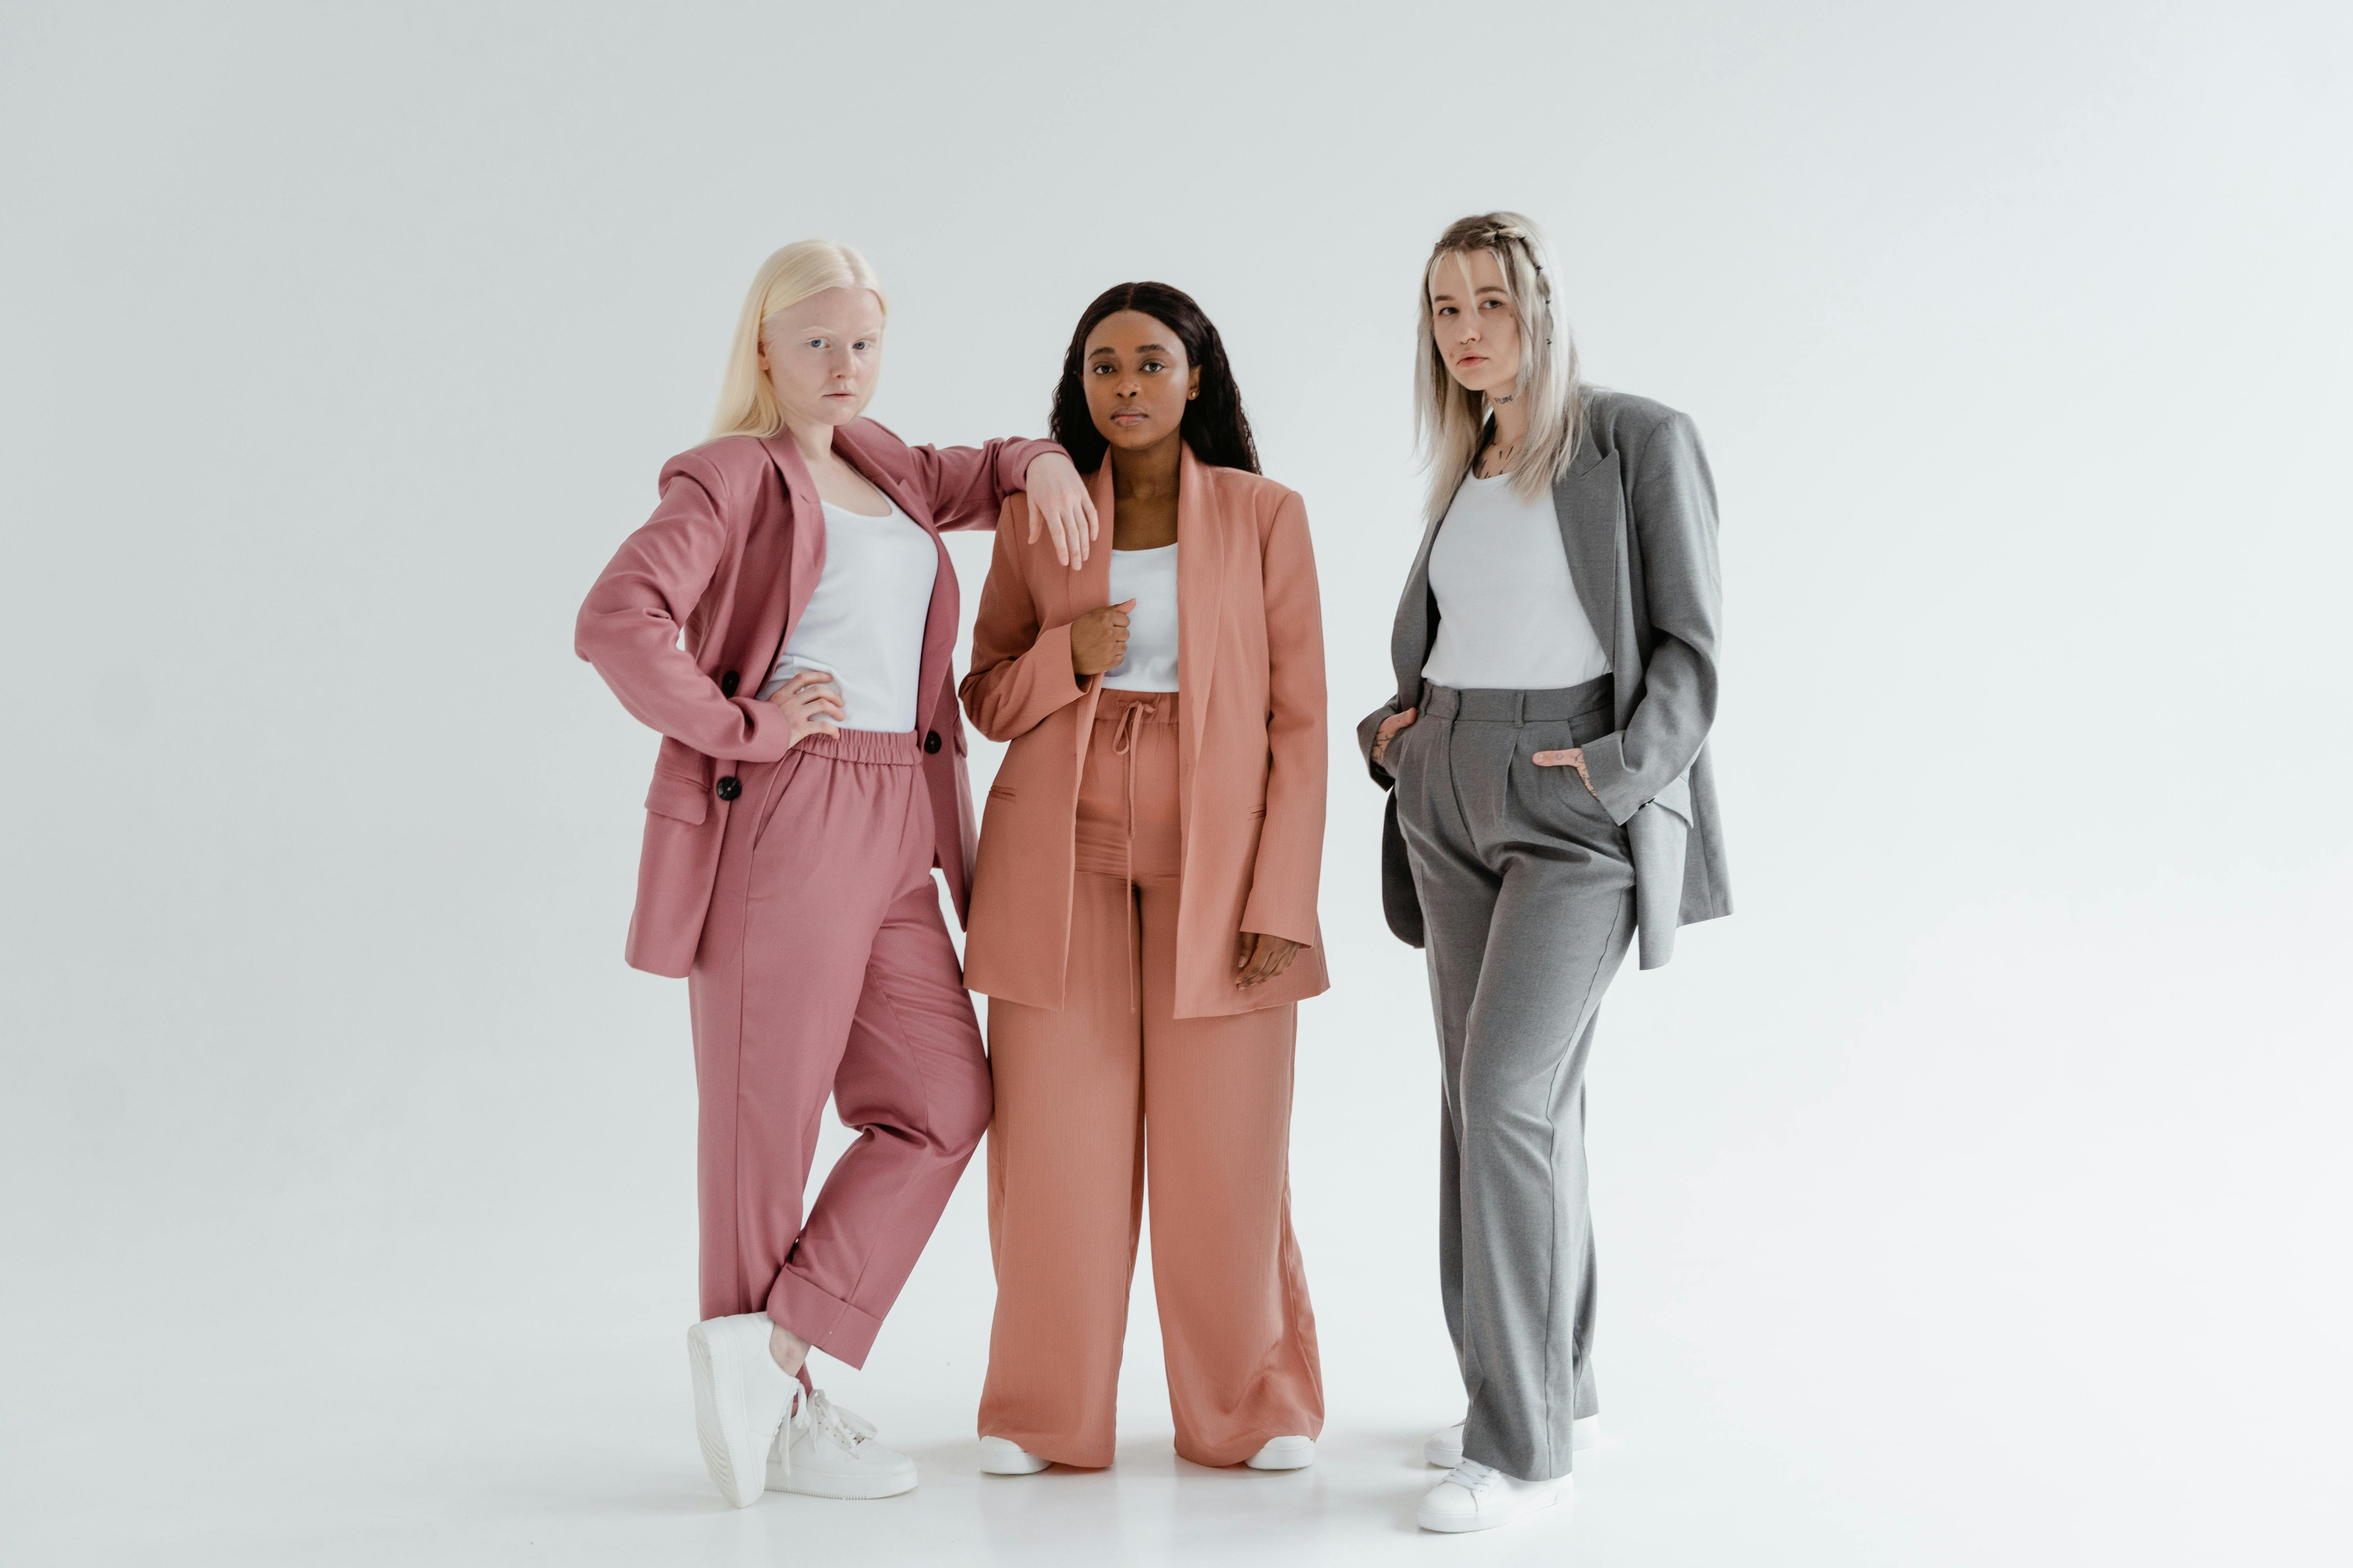
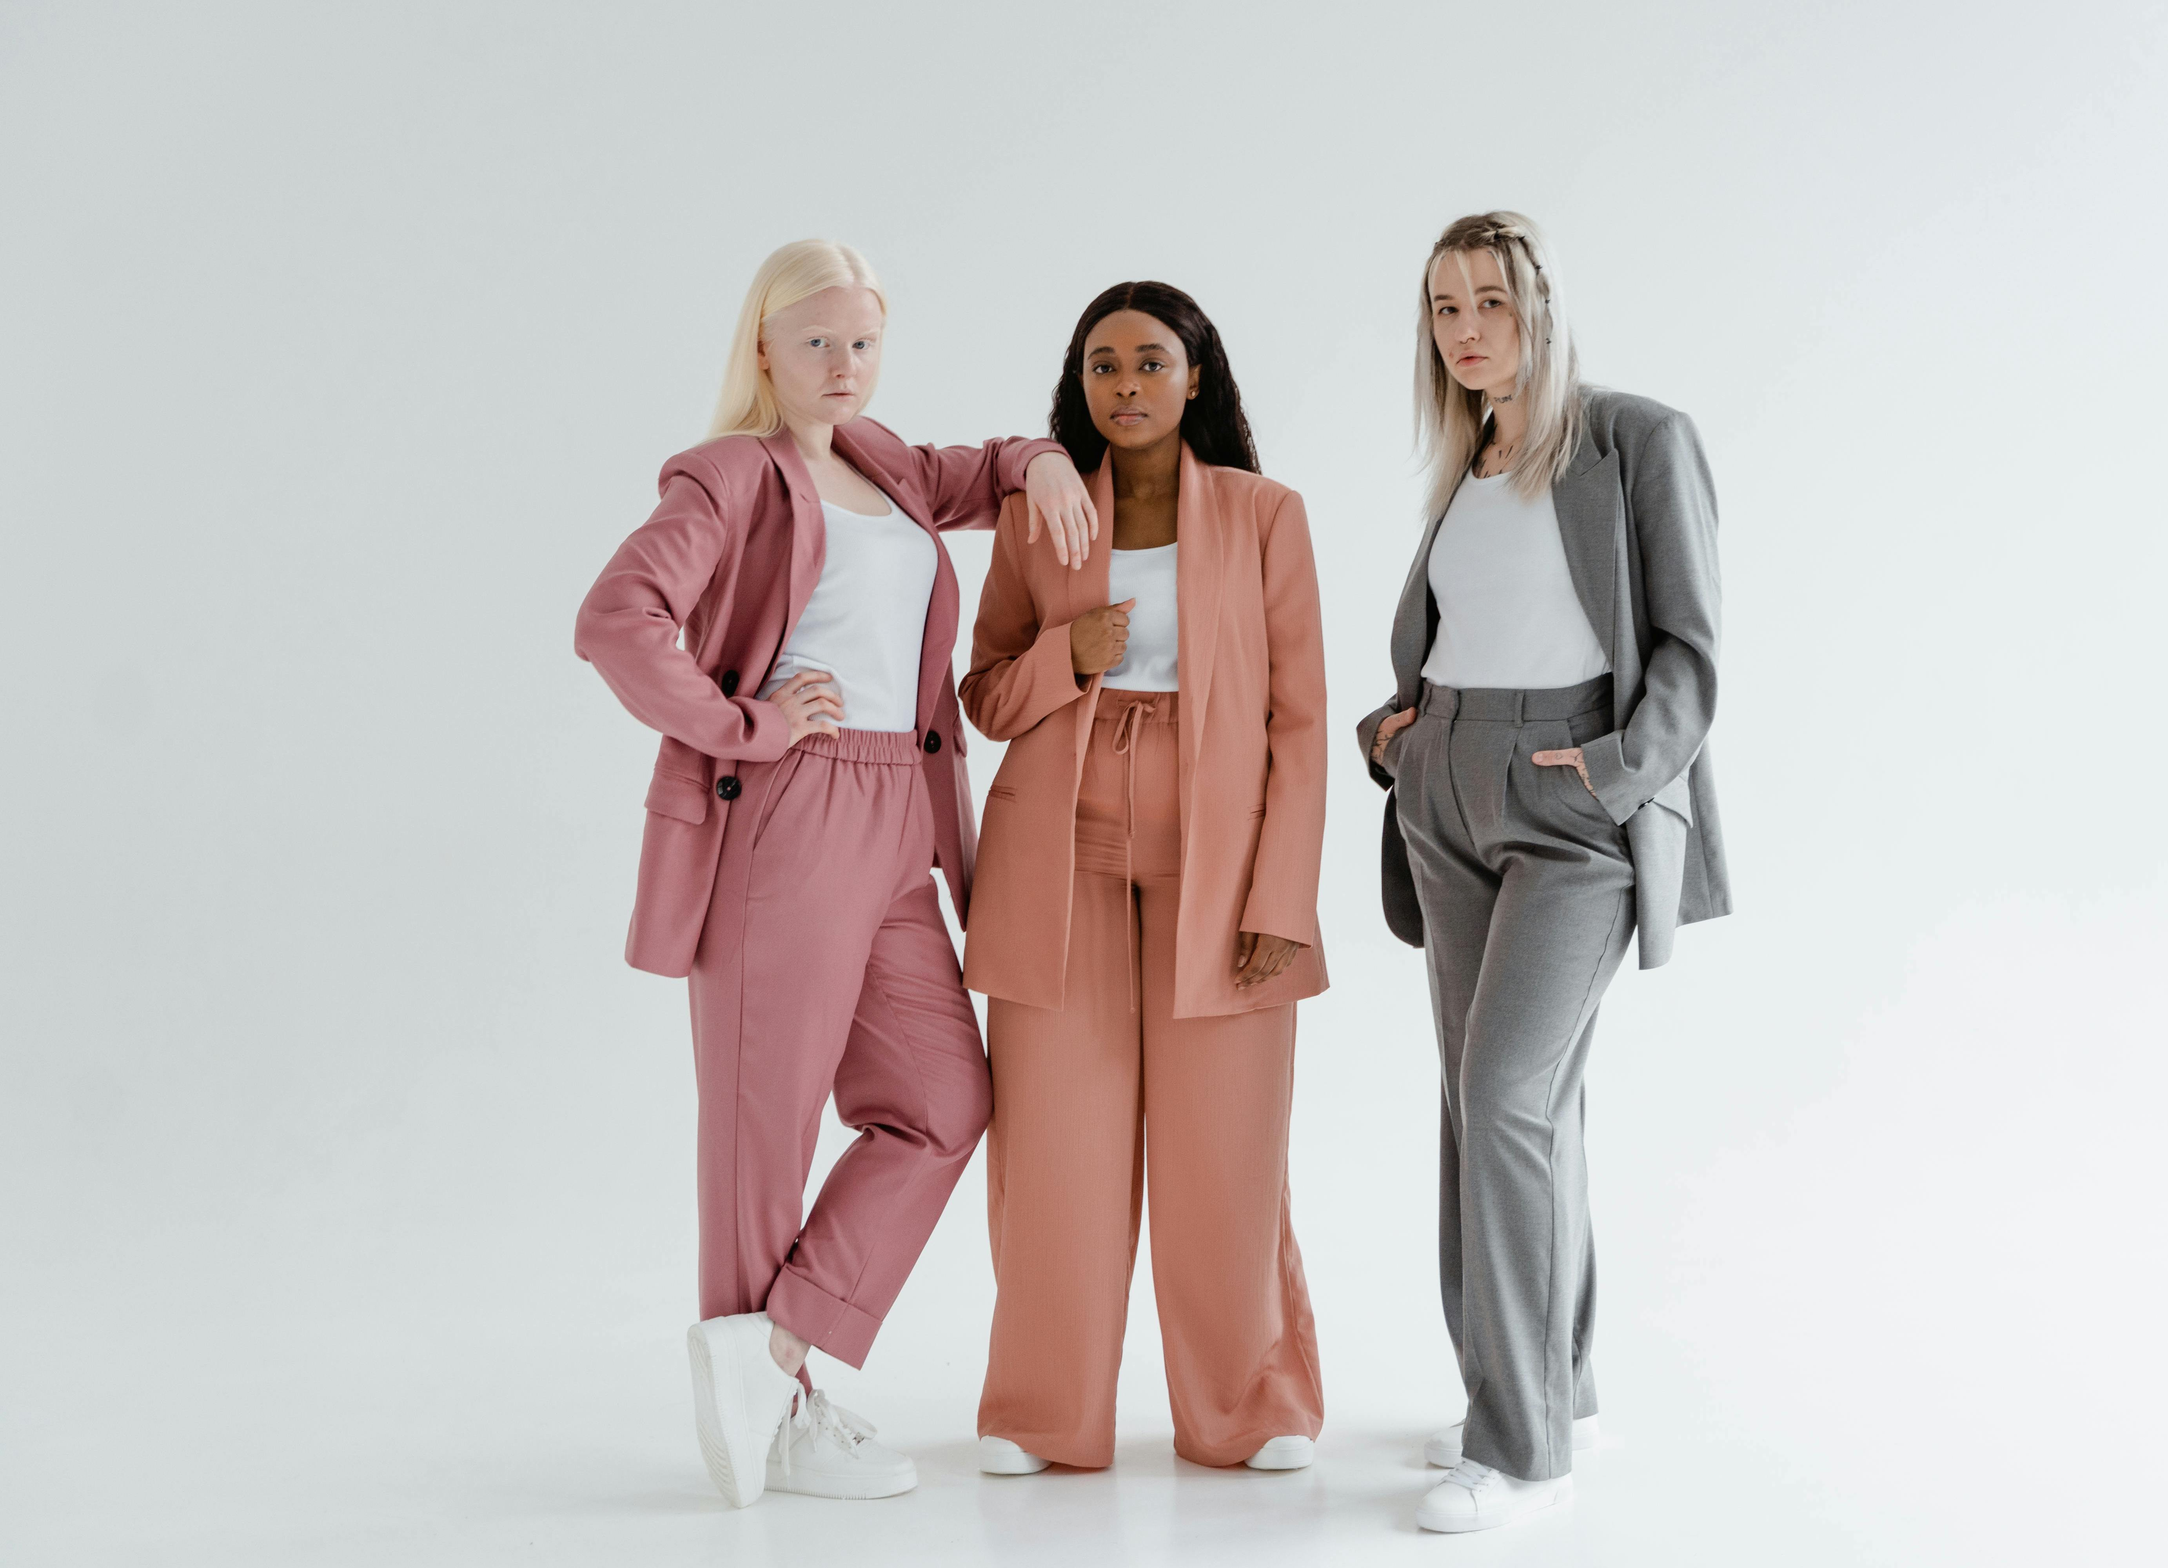
trimmed 2nd heroImage

Changed region(s): [[0.2488, 0.1241, 0.8087, 0.9925]]

diff --git a/index.html b/index.html
@@ -35,7 +35,7 @@
     <div class="bg-[#cdd3d3] w-full h-[93vh] relative">
         
     </div>
-    <img id="heroImage" class="mr-[-28px] h-[93vh] w-[60%] absolute top-[45px] right-0" src="images/pexels-tima-miroshnichenko-7202766.jpg" alt="">
+    <img id="heroImage" class="mr-[] h-[93vh] w-[60%] absolute top-[7vh] right-0" src="images/pexels-tima-miroshnichenko-7202766.jpg" alt="">
 
     </div>
   </section>
